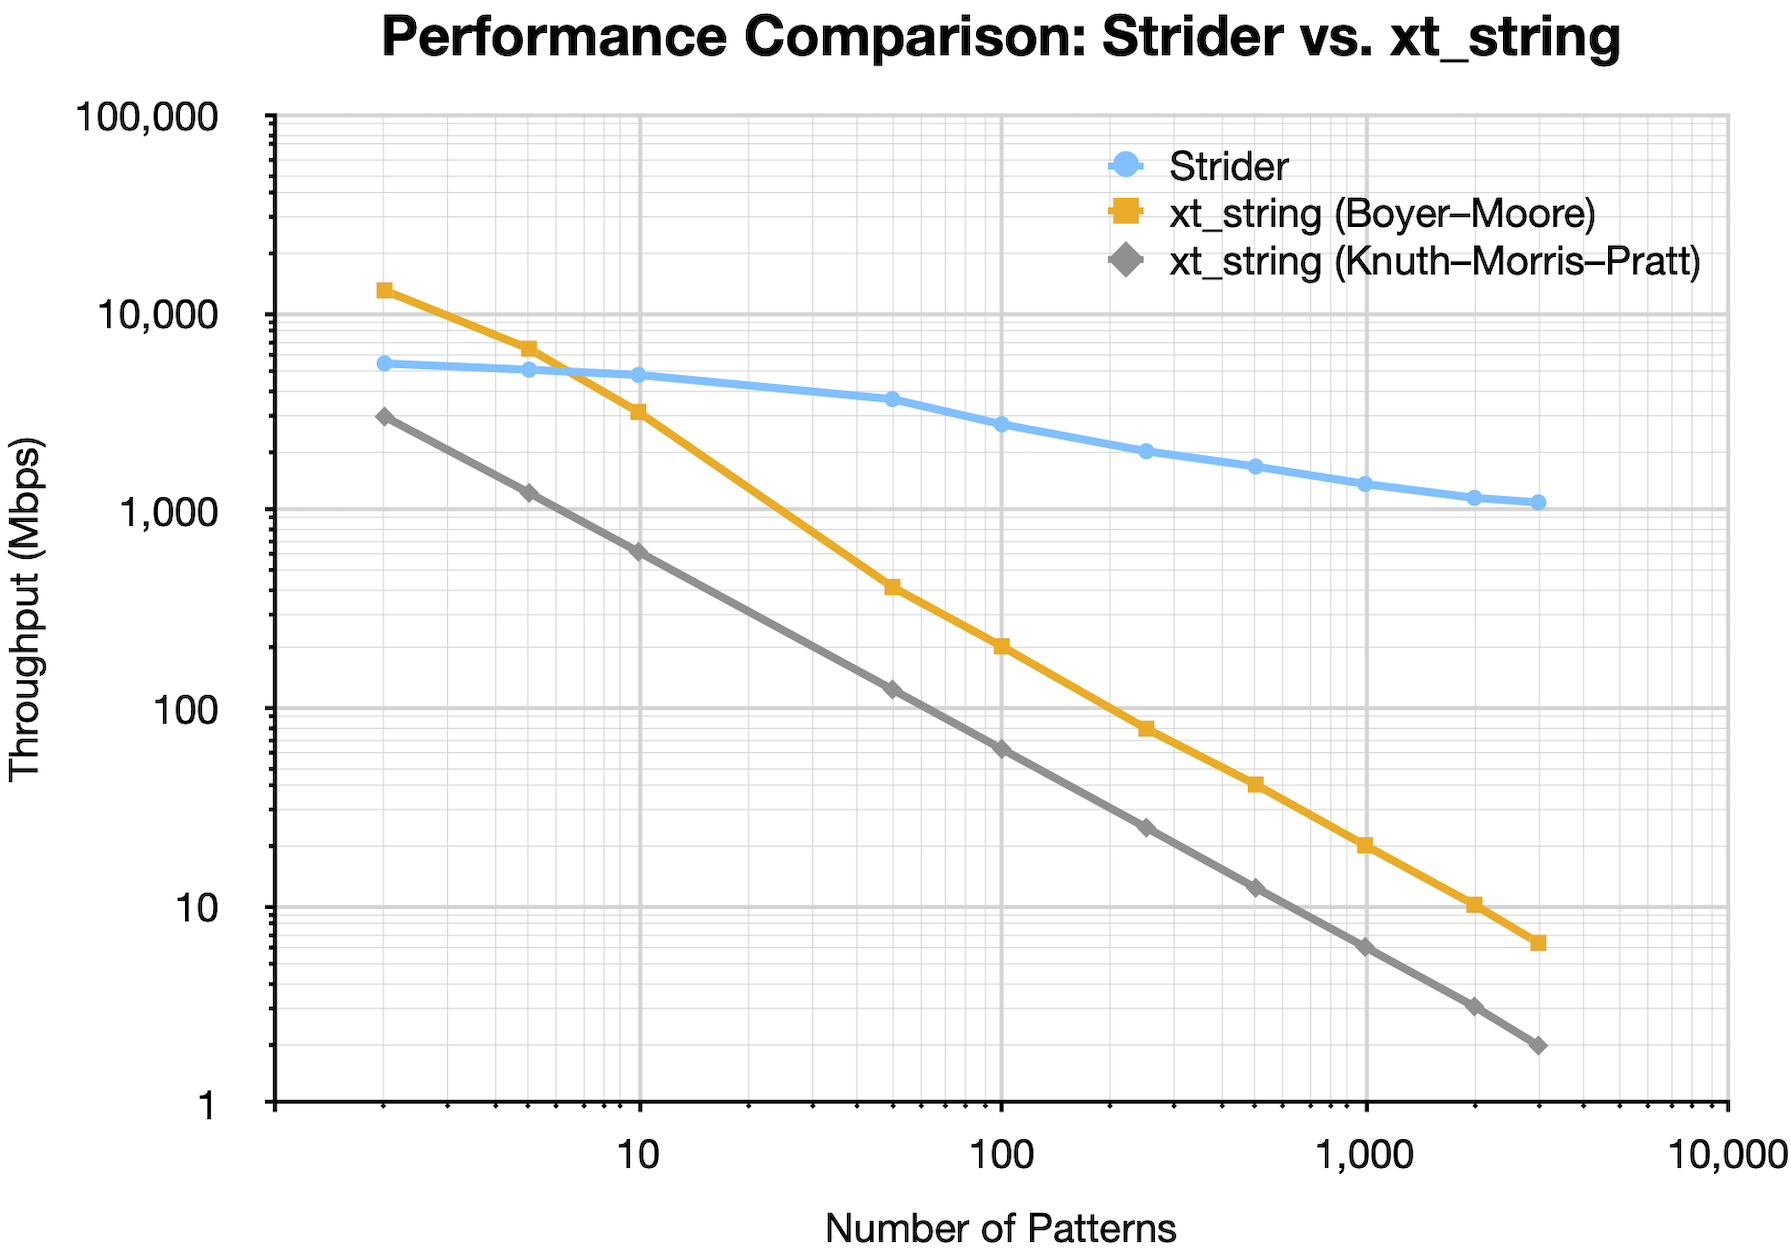
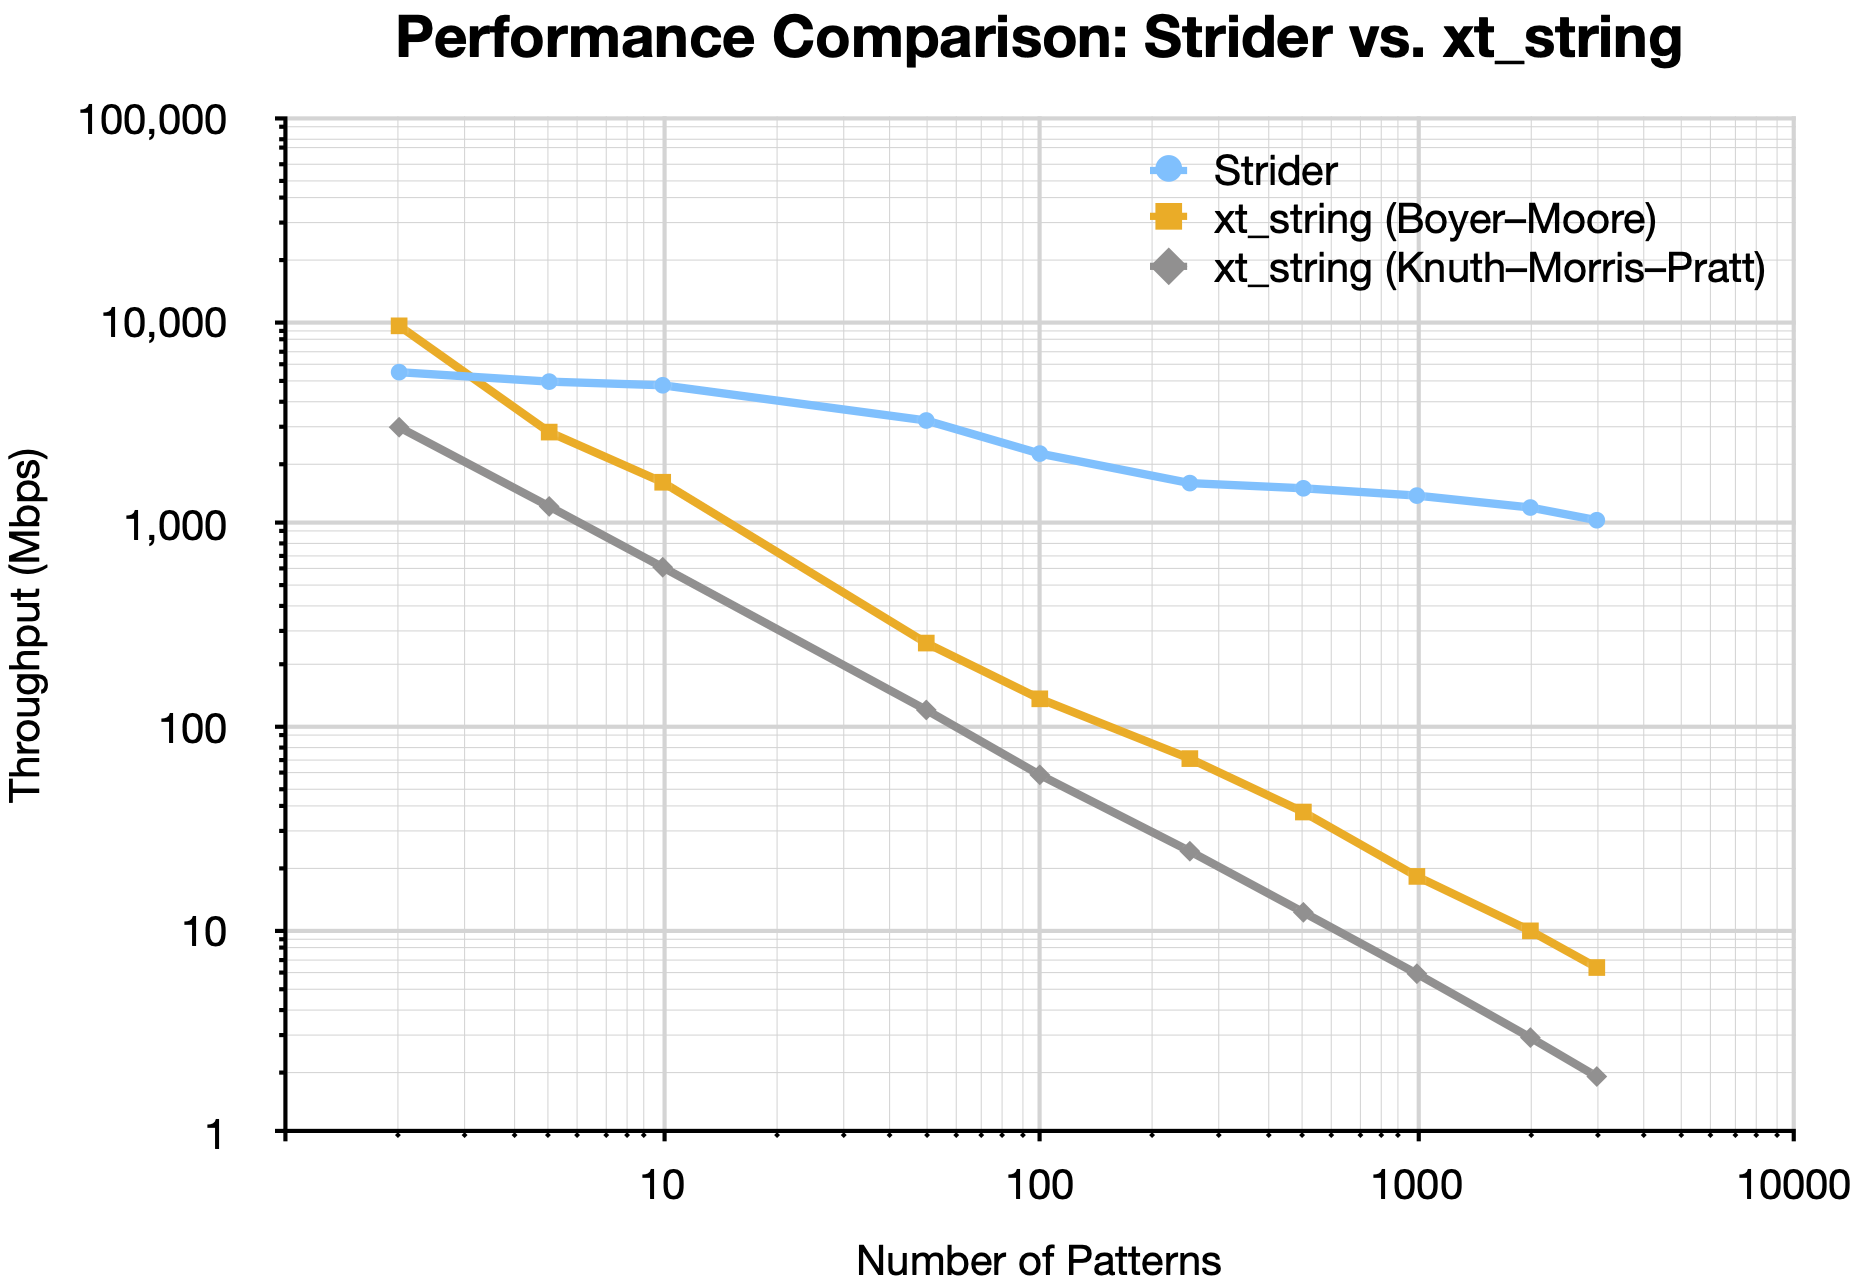
docs: update performance results

diff --git a/README.md b/README.md
@@ -24,11 +24,11 @@ eclipses even the fast Boyer–Moore algorithm.
 **Key Takeaways:**
 
 1. **Unmatched Scalability**: Strider maintains above 1 Gbps throughput even with 3,000 patterns, delivering a
-   **558.7x** speedup over `xt_string` (which collapses to an unusable 1.96 Mbps in the "reliable" KMP mode).
+   **551.3x** speedup over `xt_string` (which collapses to an unusable 1.89 Mbps in the "reliable" KMP mode).
 2. **No "Safety Tax"**: Strider matches KMP's reliability guarantees (handling fragmentation) while delivering superior
    performance for any non-trivial ruleset (>1 pattern).
 3. **Low Break-Even Point**: Even against the "fast but unreliable" Boyer–Moore algorithm, Strider takes the lead once
-   your ruleset exceeds just **~7** patterns.
+   your ruleset exceeds just **~4** patterns.
 
 ## Installation
 
